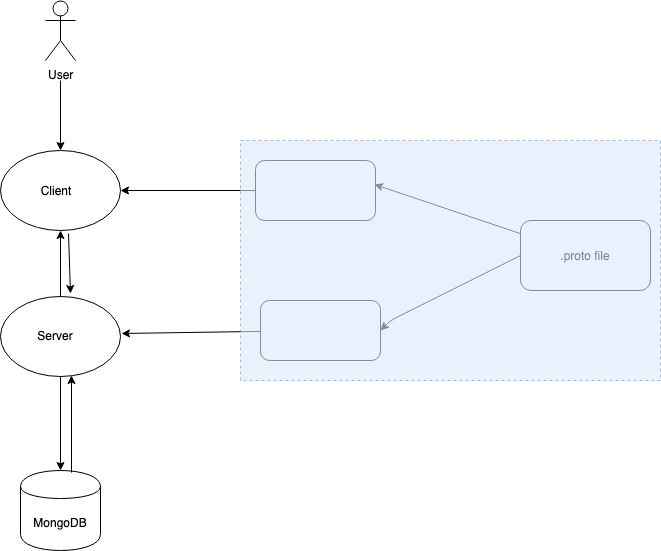
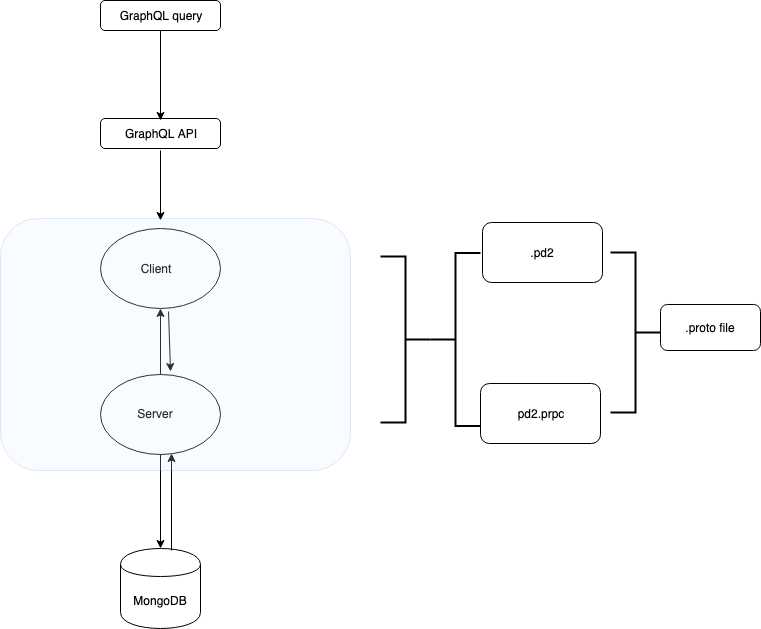
.

diff --git a/graphql/schema.py b/graphql/schema.py
@@ -1,0 +1,75 @@
+"""
+GraphQL schema for extracting infor from grpc service.
+"""
+import graphene
+
+
+class UserInfo(graphene.ObjectType):
+    email = graphene.String(required=True)
+    firstName = graphene.String()
+    lastName = graphene.String()
+    id = graphene.ID()
+
+
+class Query(graphene.ObjectType):
+
+    email = graphene.Field(UserInfo,email=graphene.String())
+
+    def resolve_email(self, info, email):
+        # inside this function, we will call the grpc function (the stub.xyz) to get info about email
+        # for now, returning hard coded values
+        return UserInfo(email=email, firstName="testFirstName", lastName="testlastName", id=1)
+
+
+schema = graphene.Schema(query=Query)
+
+
+###  This is example of query (`query something` is optional, can be removed )
+query = """
+    query something{
+      email (email:"test@gmail.com") {
+        email
+        firstName
+        lastName
+        id
+      }
+    }
+"""
+
+
+
+
+
+
+
+
+# """
+# GraphQL schema for extracting results from a website.
+# """
+# import graphene
+# import extraction
+# import requests
+
+# def extract(url):
+#     html = requests.get(url).text
+#     extracted = extraction.Extractor().extract(html, source_url=url)
+#     print(extracted)
+#     return extracted
+
+# class Website(graphene.ObjectType):
+#     email = graphene.String(required=True)
+
+    
+# class Query(graphene.ObjectType):
+#     website = graphene.Field(Website, url=graphene.String())
+
+#     def resolve_website(self, info, url):
+#         extracted = extract(url)
+#         return Website(url=url,
+#                        id=extracted.id,
+#                        firstName=extracted.first_name,
+#                        lastName=extracted.last_name,
+#                        email=extracted.email
+#         )
+
+# schema = graphene.Schema(query=Query)

diff --git a/server/addressbook_server.py b/server/addressbook_server.py
@@ -4,11 +4,11 @@ import logging
 import grpc
 import addressbook_pb2
 import addressbook_pb2_grpc
-import find_entry_in_connections
-import insert_into_db
 import time
-import create_database
 import yaml_parser
+from mongo_setup import create_database
+from mongo_setup import find_entry_in_connections
+from mongo_setup import insert_into_db
 
 _ONE_DAY_IN_SECONDS = 60 * 60 * 24
 
@@ -16,7 +16,7 @@ class Server(addressbook_pb2_grpc.address_infoServicer):  # looking for stub of 
 
     def search_user(self, request, context): # instantiate the rpc function defined in proto file
         out = find_entry_in_connections.find_entry(yaml_parser.mongodb_out('mongodb_name'), {'email': request.email})
-        f= open("output.txt","w+")
+        f= open("/tmp/output.txt","w+")
         f.write(str(out))
         if out is not None:
             return addressbook_pb2.user_info( id      = int(out['id']),

diff --git a/graphql/query.py b/graphql/query.py
@@ -1,0 +1,27 @@
+import pprint
+import schema
+
+
+def query_url():
+    q = """
+    query something{
+      email (email:"test@gmail.com") {
+        email
+        firstName
+        lastName
+        id
+      }
+    }
+    """
+    result = schema.schema.execute(q)
+    if result.errors:
+        if len(result.errors) == 1:
+            raise Exception(result.errors[0])
+        else:
+            raise Exception(result.errors)
+    return result.data
+
+
+if __name__ == "__main__":
+    results = query_url("https://lethain.com/migrations/")
+    pprint.pprint(results)

diff --git a/client/setup.py b/client/setup.py
@@ -1,0 +1,19 @@
+from distutils.core import setup
+from setuptools import find_packages
+
+requires = [
+    'six>=1.10.0',
+]
+
+if __name__ == "__main__":
+    setup(
+        name="email-grpc",
+        version="0.0.1",
+        packages=find_packages(),
+        author='devops_team',
+        author_email='devopsac@email.com',
+        install_requires=requires,
+        include_package_data=True,
+    )
+
+# python setup.py install

diff --git a/graphql/setup.py b/graphql/setup.py
@@ -1,0 +1,19 @@
+from distutils.core import setup
+from setuptools import find_packages
+
+requires = [
+    'six>=1.10.0',
+]
+
+if __name__ == "__main__":
+    setup(
+        name="email-grpc",
+        version="0.0.1",
+        packages=find_packages(),
+        author='devops_team',
+        author_email='devopsac@email.com',
+        install_requires=requires,
+        include_package_data=True,
+    )
+
+# python setup.py install

diff --git a/server/setup.py b/server/setup.py
@@ -1,0 +1,19 @@
+from distutils.core import setup
+from setuptools import find_packages
+
+requires = [
+    'six>=1.10.0',
+]
+
+if __name__ == "__main__":
+    setup(
+        name="email-grpc",
+        version="0.0.1",
+        packages=find_packages(),
+        author='devops_team',
+        author_email='devopsac@email.com',
+        install_requires=requires,
+        include_package_data=True,
+    )
+
+# python setup.py install

diff --git a/server/mongo_setup/find_entry_in_connections.py b/server/mongo_setup/find_entry_in_connections.py
@@ -8,8 +8,6 @@ def find_entry(dbname, find_entry):
     result = db.user_details.find_one(find_entry)
     return(result)
 
-# def main():
-#     if __name__ == "__main__":
-#         print(find_entry('customer', {'first_name': "John"}))
-
-# main()
+def main():
+    if __name__ == "__main__":
+        print(find_entry('customer', {'first_name': "John"}))

diff --git a/graphql/server.py b/graphql/server.py
@@ -1,0 +1,9 @@
+"""
+Python HTTP server for GraphQL.
+"""
+from flask import Flask
+from flask_graphql import GraphQLView
+from schema import schema
+app = Flask(__name__)
+app.add_url_rule('/', view_func=GraphQLView.as_view('graphql', schema=schema, graphiql=True))
+app.run(debug=True,host='0.0.0.0')

diff --git a/graphql/http_client.py b/graphql/http_client.py
@@ -1,0 +1,15 @@
+import requests
+
+
+q = """
+{ 
+  website(url: "https://lethain.com/migrations") {
+    title
+    image
+  }
+}
+"""
+
+
+resp = requests.post("http://localhost:5000/", params={'query': q})
+print(resp.text)

diff --git a/server/mongo_setup/create_database.py b/server/mongo_setup/create_database.py
@@ -11,7 +11,9 @@ info = {"id": "1",
 
 def create_db(dbname):
     db = client[dbname]
+
     collection = db.user_details
+
     result = collection.insert_one(info)
 
 def main():

diff --git a/client/addressbook_client.py b/client/addressbook_client.py
@@ -18,7 +18,6 @@ def run():
             print('Failed with {0}: {1}'.format(e.code(), e.details()))
 
 
-
 if __name__ == '__main__':
     logging.basicConfig()
     run()
